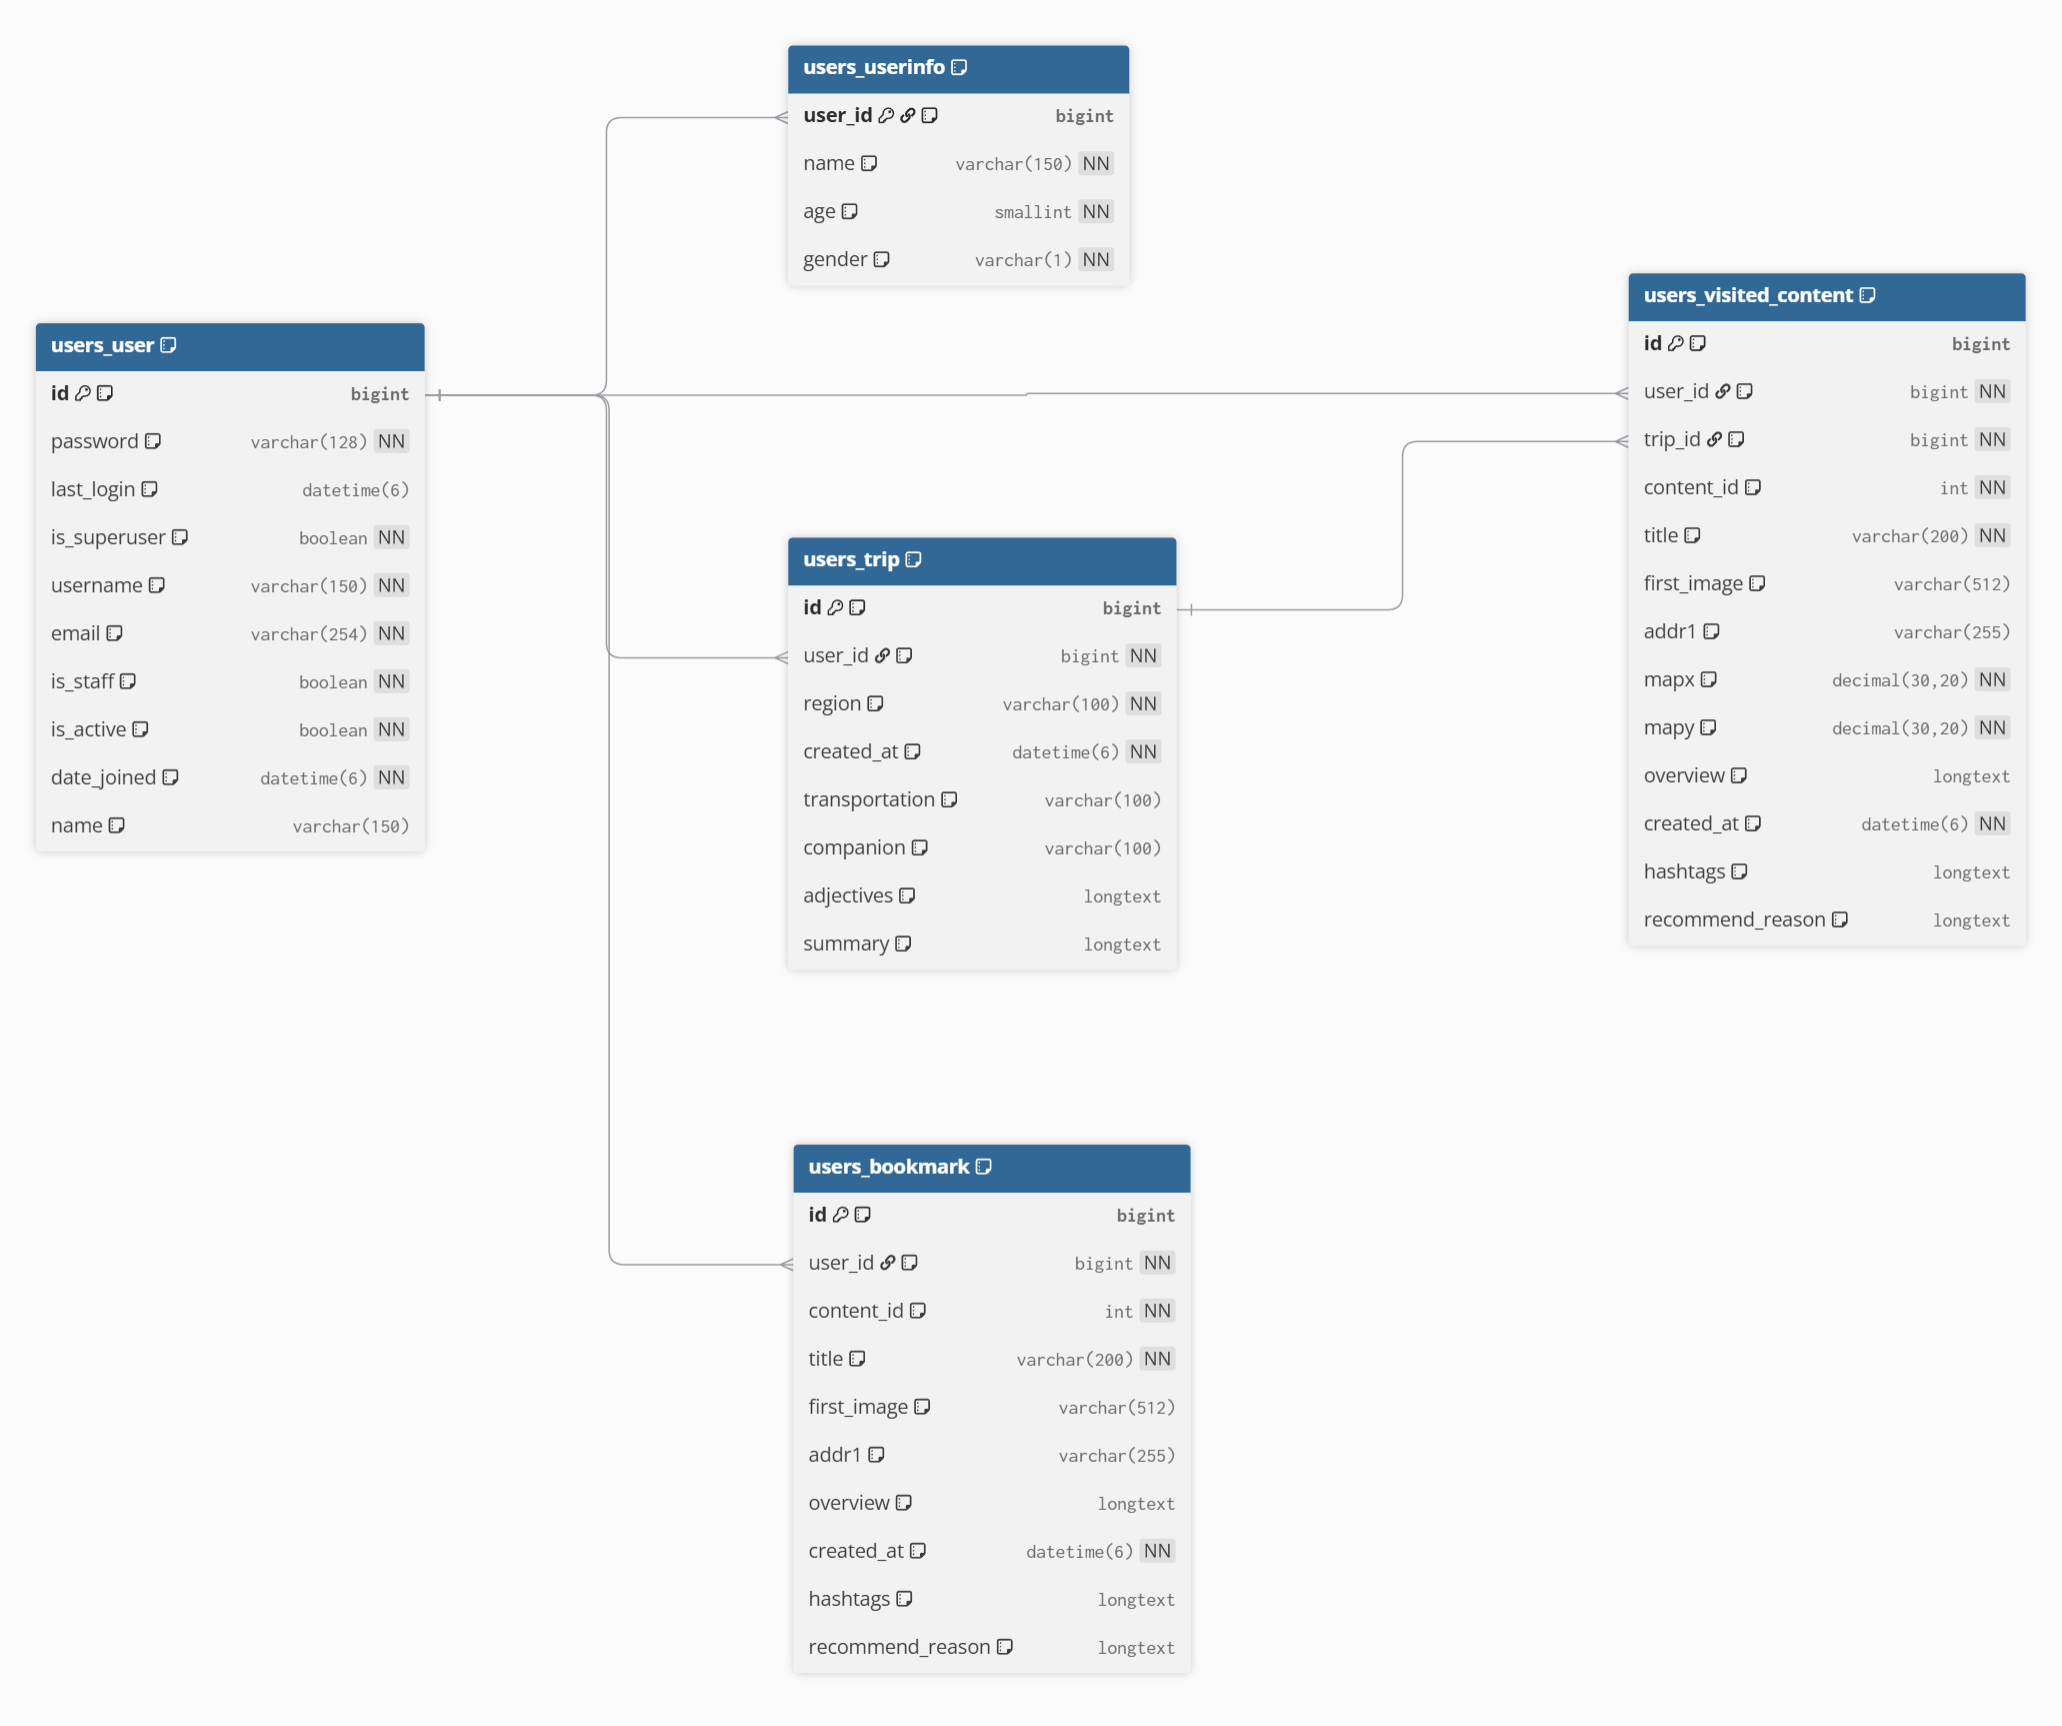
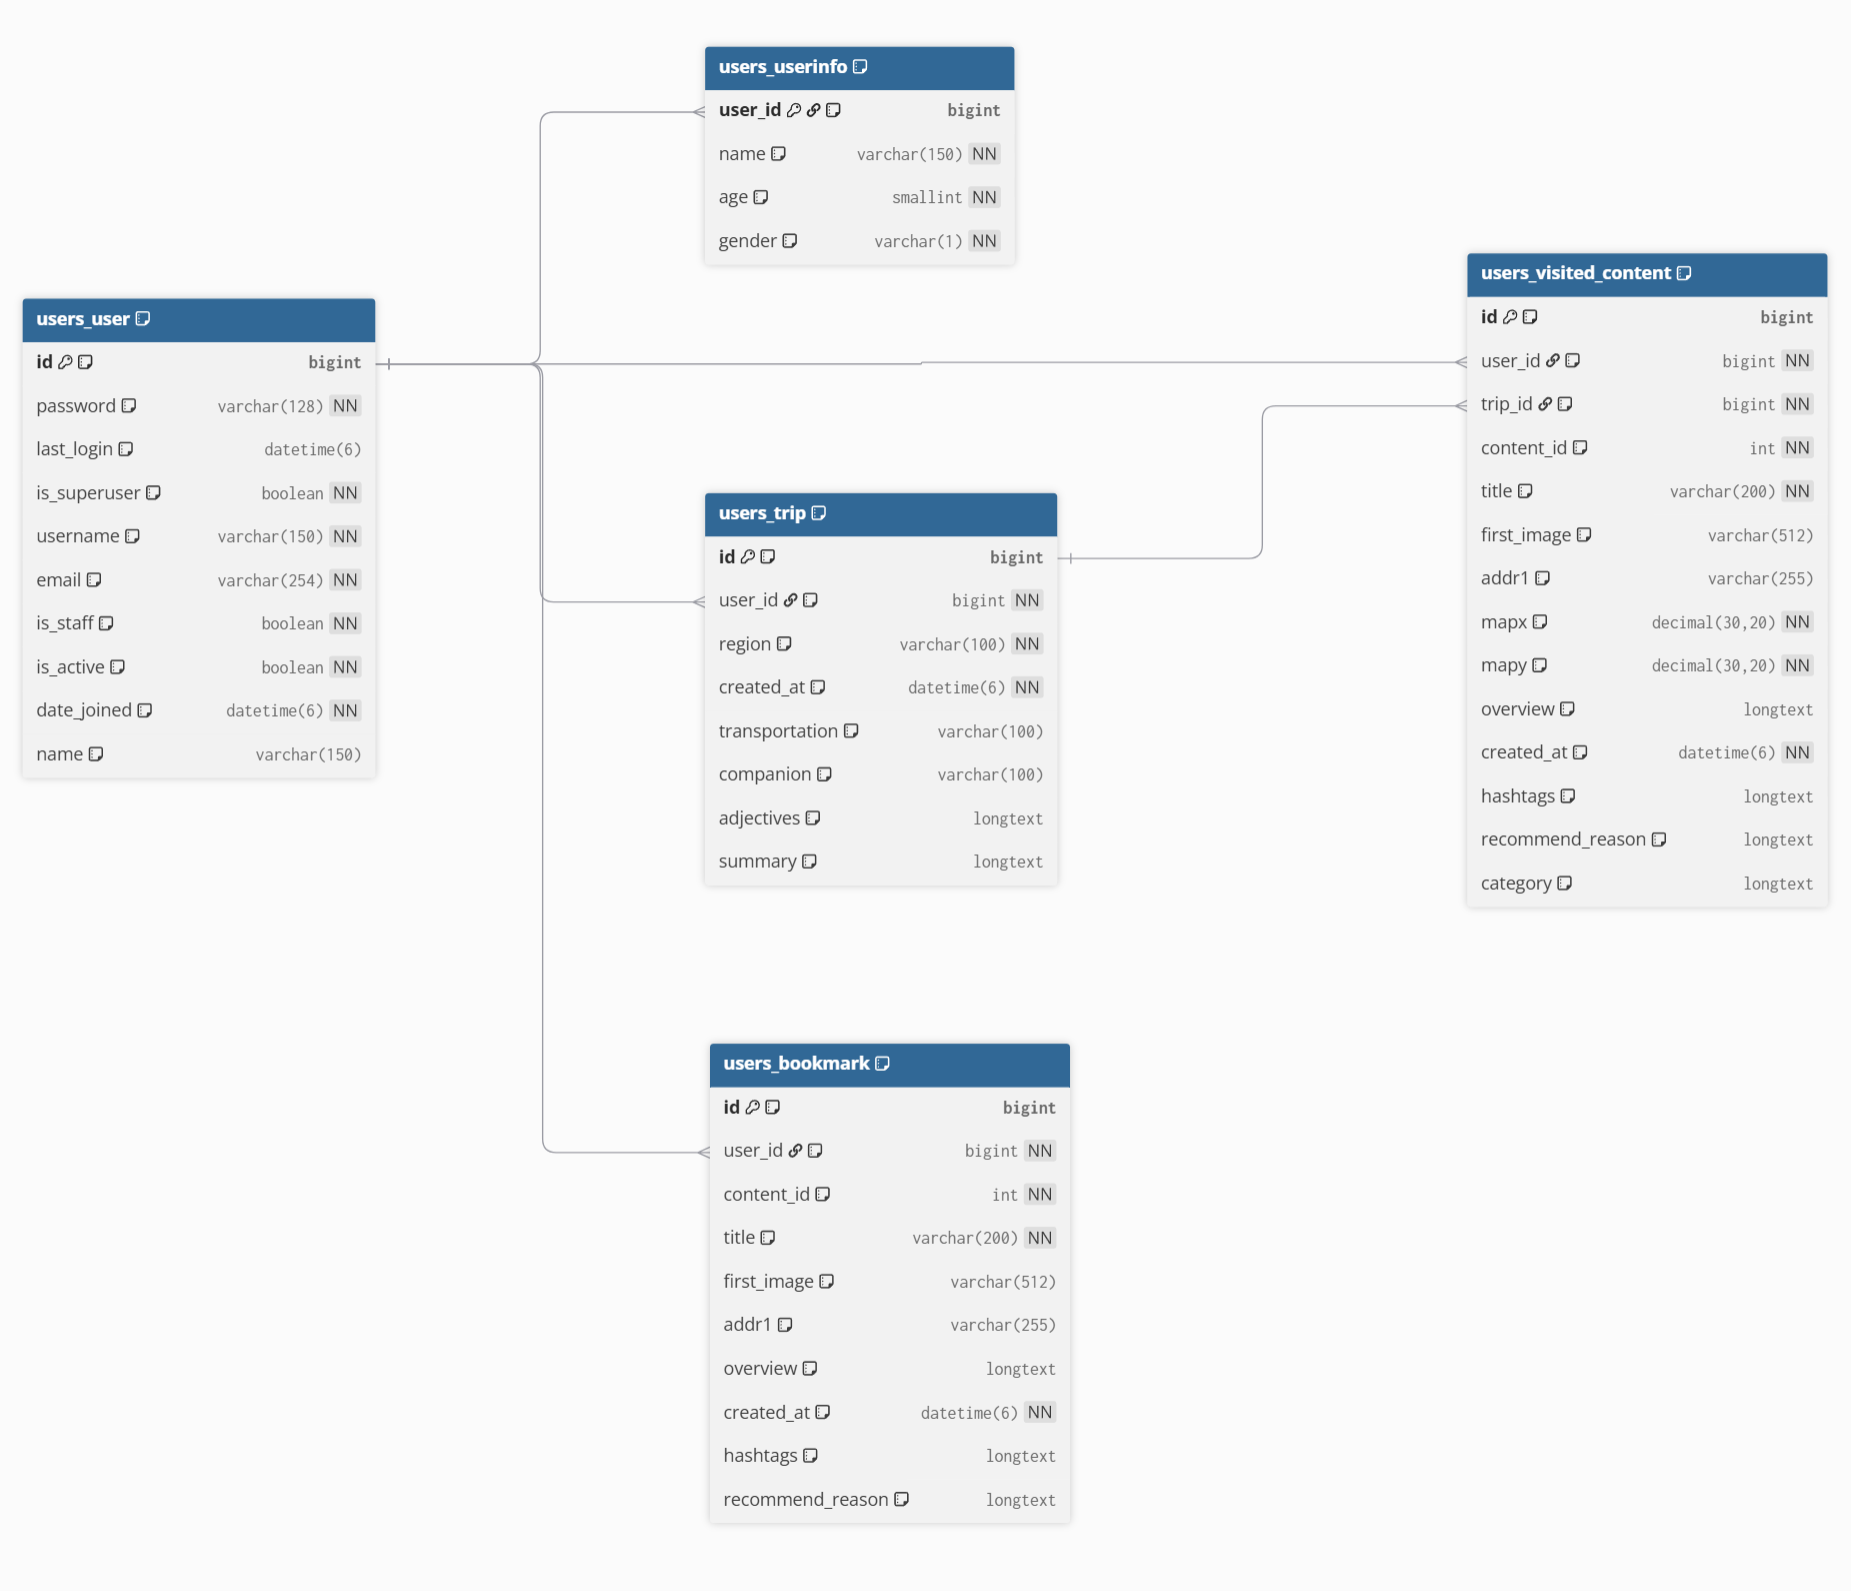
Update: db_diagram.png
visited_content 테이블 구조 변경에 따른 이미지 갱신

diff --git a/README.md b/README.md
@@ -435,7 +435,8 @@ Authorization: Bearer <ACCESS_TOKEN>
     "mapy": "37.5674097516",
     "overview": "...",
     "hashtags": "#포차 #빈티지감성",
-    "recommend_reason": "장안문은 빈티지하면서도 세련된 인테리어..."
+    "recommend_reason": "장안문은 빈티지하면서도 세련된 인테리어...",
+    "category": "식당"
 }
 ```
 
